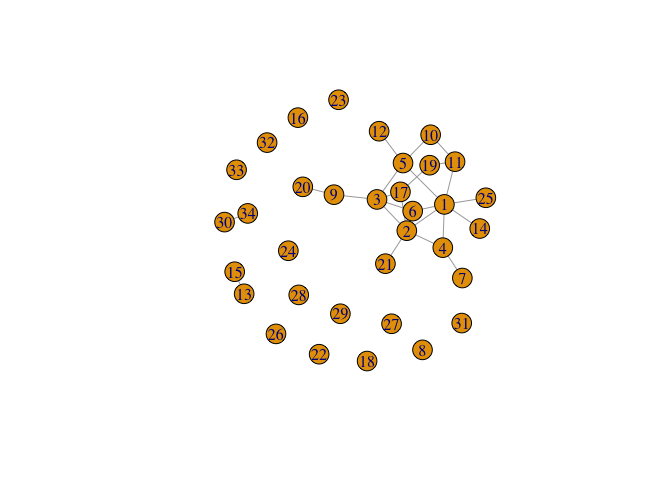
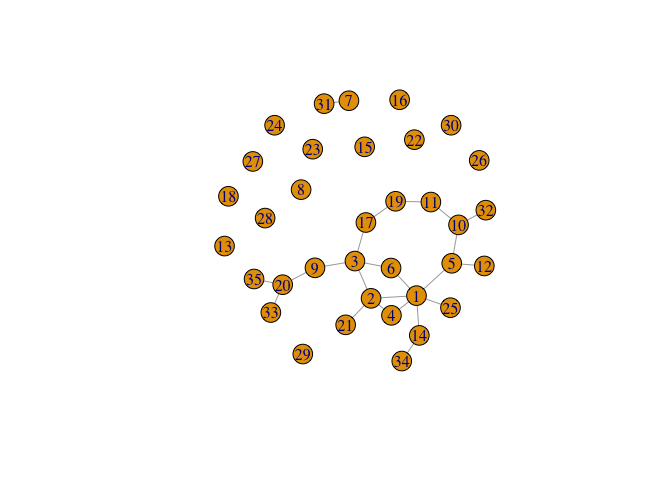
rerun readme

Changed region(s): [[0.3125, 0.1875, 0.75, 0.7812], [0.4375, 0.7188, 0.5, 0.7812]]

diff --git a/README.md b/README.md
@@ -10,8 +10,8 @@
 
 The goal of netseer is to predict the graph structure including new
 nodes and edges from a time series of graphs. The methodology is
-explained in the preprint (Kandanaarachchi 2024). We will illustrate an
-example in this vignette.
+explained in the preprint (Sevvandi Kandanaarachchi 2024). We will
+illustrate an example in this vignette.
 
 ## Installation
 
@@ -86,17 +86,16 @@ predict the graph at the next time point.
 grpred <- predict_graph(graphlist[1:15],h = 1)
 #> Warning: 2 errors (1 unique) encountered for arima
 #> [2] missing value where TRUE/FALSE needed
-#> Joining with `by = join_by(vertex)`
-#> Joining with `by = join_by(From, To)`
-#> Joining with `by = join_by(original)`
-#> Joining with `by = join_by(original)`
+#> Registered S3 method overwritten by 'quantmod':
+#>   method            from
+#>   as.zoo.data.frame zoo
 grpred
 #> $graph_mean
-#> IGRAPH bd2d240 U--- 34 24 -- 
-#> + edges from bd2d240:
-#>  [1]  1-- 2  1-- 4  1-- 5  1-- 6  1--11  1--14  1--25  2-- 3  2-- 4  2--17
-#> [11]  2--21  3-- 5  3-- 6  3-- 9  3--17  4-- 7  5--10  5--12  9--20 10--11
-#> [21] 11--19 13--15 17--19 30--34
+#> IGRAPH bb1ab36 U--- 35 23 -- 
+#> + edges from bb1ab36:
+#>  [1] 17--19 11--19 10--11  9--20  5--12  5--10  3--17  3-- 9  3-- 6  2--21
+#> [11]  2-- 4  2-- 3  1--25  1--14  1-- 6  1-- 5  1-- 4  1-- 2  7--31 10--32
+#> [21] 20--33 14--34 20--35
 #> 
 #> $graph_lower
 #> NULL
@@ -111,9 +110,9 @@ plot(grpred$graph_mean)
 
 ``` r
 ecount(grpred$graph_mean)
-#> [1] 24
+#> [1] 23
 vcount(grpred$graph_mean)
-#> [1] 34
+#> [1] 35
 ```
 
 ### Predicting the graph at 2 time steps ahead
@@ -124,17 +123,13 @@ Now let us predict the graph at 2 time steps ahead with $h=2$.
 grpred2 <- predict_graph(graphlist[1:15], h = 2)
 #> Warning: 2 errors (1 unique) encountered for arima
 #> [2] missing value where TRUE/FALSE needed
-#> Joining with `by = join_by(vertex)`
-#> Joining with `by = join_by(From, To)`
-#> Joining with `by = join_by(original)`
-#> Joining with `by = join_by(original)`
 grpred2
 #> $graph_mean
-#> IGRAPH 94fa600 U--- 37 27 -- 
-#> + edges from 94fa600:
-#>  [1]  1-- 2  1-- 4  1-- 5  1-- 6  1--11  1--14  1--25  2-- 3  2-- 4  2--17
-#> [11]  2--21  3-- 5  3-- 6  3-- 9  3--17  4-- 7  5--10  5--12  9--20 10--11
-#> [21] 11--19 13--15 17--19 30--34 30--35 30--36 30--37
+#> IGRAPH 35d87d4 U--- 38 26 -- 
+#> + edges from 35d87d4:
+#>  [1] 10--11  9--20  5--12  5--10  3--17  3-- 9  2--21  2-- 4  2-- 3  1--14
+#> [11]  1-- 6  1-- 5  1-- 4  1-- 2 19--31 17--31 17--32  7--32 11--33 28--33
+#> [21] 16--34 10--34 16--35  6--36  3--37 12--38
 #> 
 #> $graph_lower
 #> NULL
@@ -149,9 +144,9 @@ plot(grpred2$graph_mean)
 
 ``` r
 ecount(grpred2$graph_mean)
-#> [1] 27
+#> [1] 26
 vcount(grpred2$graph_mean)
-#> [1] 37
+#> [1] 38
 ```
 
 We see the predicted graph at $h=2$ has more vertices and edges than the
@@ -167,17 +162,13 @@ predictions are less accurate. This is with everything, not just graphs.
 grpred3 <- predict_graph(graphlist[1:15], h = 3)
 #> Warning: 2 errors (1 unique) encountered for arima
 #> [2] missing value where TRUE/FALSE needed
-#> Joining with `by = join_by(vertex)`
-#> Joining with `by = join_by(From, To)`
-#> Joining with `by = join_by(original)`
-#> Joining with `by = join_by(original)`
 grpred3
 #> $graph_mean
-#> IGRAPH d9abc19 U--- 40 29 -- 
-#> + edges from d9abc19:
-#>  [1]  1-- 2  1-- 4  1-- 5  1-- 6  1--11  1--14  1--25  2-- 3  2-- 4  2--17
-#> [11]  2--21  3-- 5  3-- 6  3-- 9  3--17  4-- 7  5--10  5--12  9--20 10--11
-#> [21] 11--19 13--15 17--19 30--35 30--36 30--37 30--38 30--39 30--40
+#> IGRAPH 2ac93a1 U--- 41 29 -- 
+#> + edges from 2ac93a1:
+#>  [1] 10--11  5--10  3--17  3-- 9  2-- 4  2-- 3  1--14  1-- 6  1-- 5  1-- 4
+#> [11]  1-- 2 21--31 20--31 19--32  3--32 19--33  2--33  9--34 11--34 17--35
+#> [21] 16--35 12--36  7--36  9--37 11--37 15--38 15--39 29--40 19--41
 #> 
 #> $graph_lower
 #> NULL
@@ -194,7 +185,7 @@ plot(grpred3$graph_mean)
 ecount(grpred3$graph_mean)
 #> [1] 29
 vcount(grpred3$graph_mean)
-#> [1] 40
+#> [1] 41
 ```
 
 # References
@@ -203,8 +194,8 @@ vcount(grpred3$graph_mean)
 
 <div id="ref-kand2024graphpred" class="csl-entry">
 
-Kandanaarachchi, Sevvandi. 2024. “Predicting the Structure of Dynamic
-Graphs.” <https://arxiv.org/abs/2401.04280>.
+Sevvandi Kandanaarachchi, Stefan Westerlund, Ziqi Xu. 2024. “Predicting
+the Structure of Dynamic Graphs.” <https://arxiv.org/abs/2401.04280>.
 
 </div>
 
